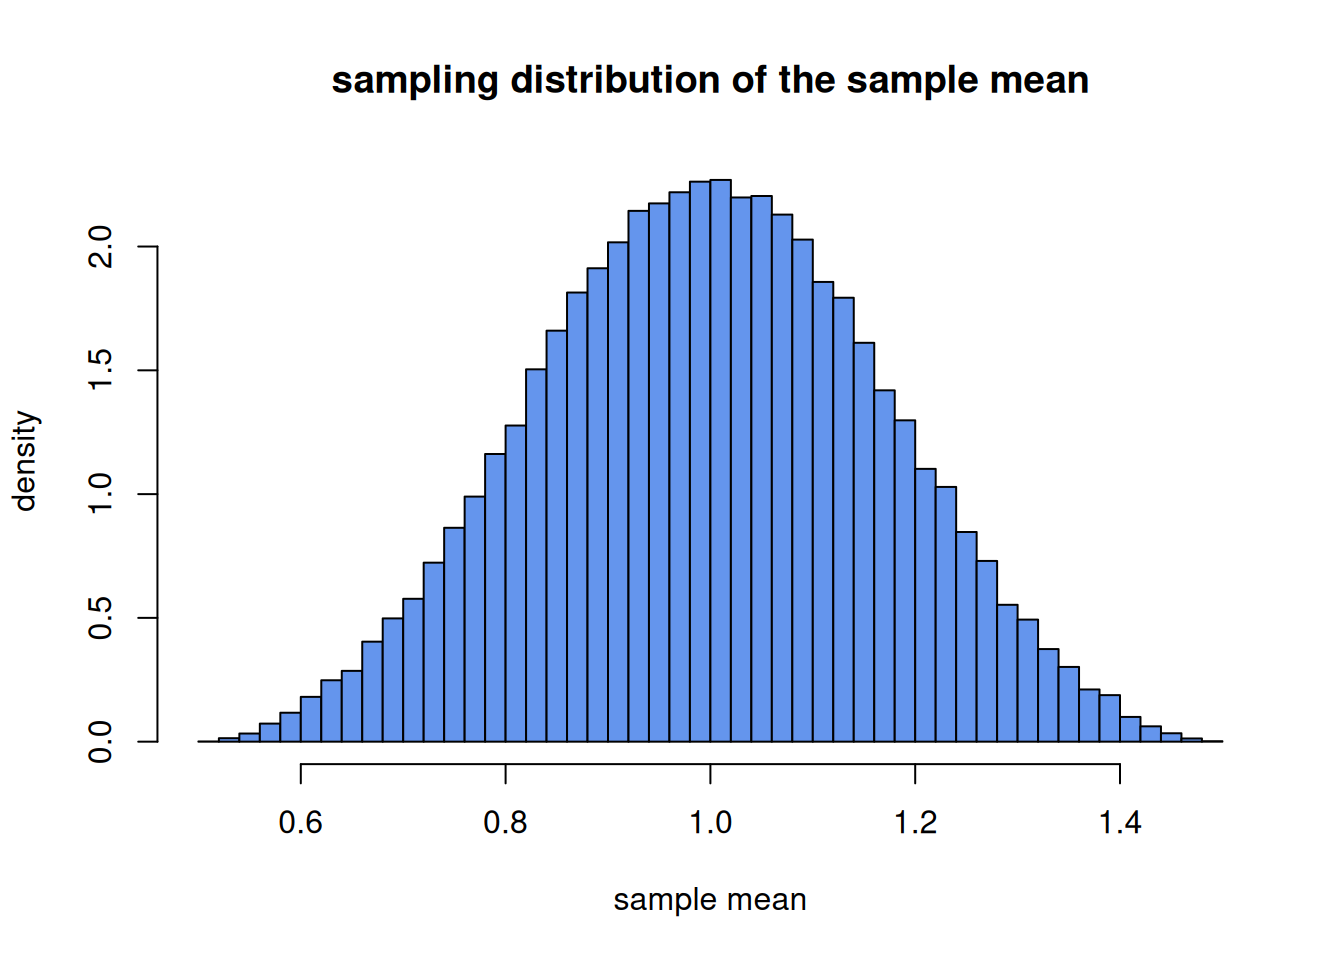
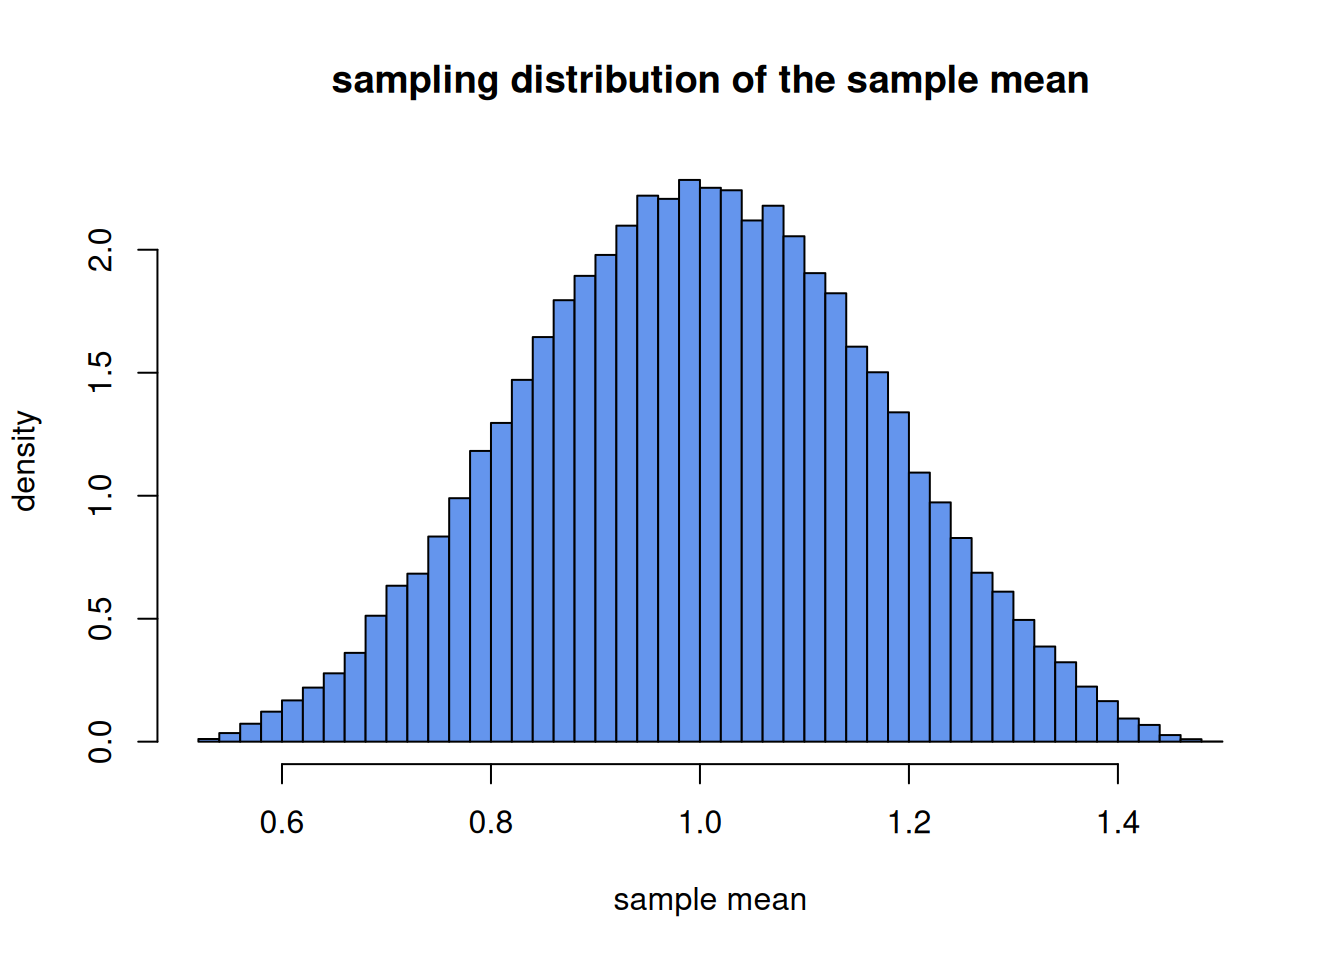
solution added to 2.10

diff --git a/docs/exercises/ch2solutions.html b/docs/exercises/ch2solutions.html
@@ -1036,7 +1036,14 @@ p(\theta \vert x_1,\ldots,x_n) &amp; \propto p(x_1,\ldots,x_n \vert \theta)p(\th
 </div>
 <div id="callout-13" class="callout-13-contents callout-collapse collapse">
 <div class="callout-body-container callout-body">
-<p><img src="../exercises/larry.png" class="img-fluid" width="167"></p>
+<p>The pdf of the <span class="math inline">\(N(\mu,1)\)</span> distribution can be written <span class="math display">\[
+\begin{aligned}
+p(x\mid \mu) &amp;= \frac{1}{\sqrt{2\pi}}\exp\left(-\frac{(x-\mu)^2}{2}\right) \\
+&amp;= \frac{1}{\sqrt{2\pi}}\exp\left(-\frac{x^2-2\mu x+\mu^2}{2}\right) \\
+&amp;= \frac{1}{\sqrt{2\pi}}\exp\left(-\frac{x^2}{2}\right)\exp\left(\mu x - \frac{\mu^2}{2}\right) \\
+&amp;= h(x)\exp\left(\eta(\mu)T(x) - A(\mu)\right),  
+\end{aligned}
+\]</span> with <span class="math inline">\(h(x) = \frac{1}{\sqrt{2\pi}}\exp\left(-\frac{x^2}{2}\right)\)</span>, <span class="math inline">\(\eta(\mu) = \mu\)</span>, <span class="math inline">\(T(x) = x\)</span>, and <span class="math inline">\(A(\mu) = \frac{\mu^2}{2}\)</span>. The <span class="math inline">\(N(\mu,1)\)</span> distribution is therefore a member of the exponential family.</p>
 </div>
 </div>
 </div>
